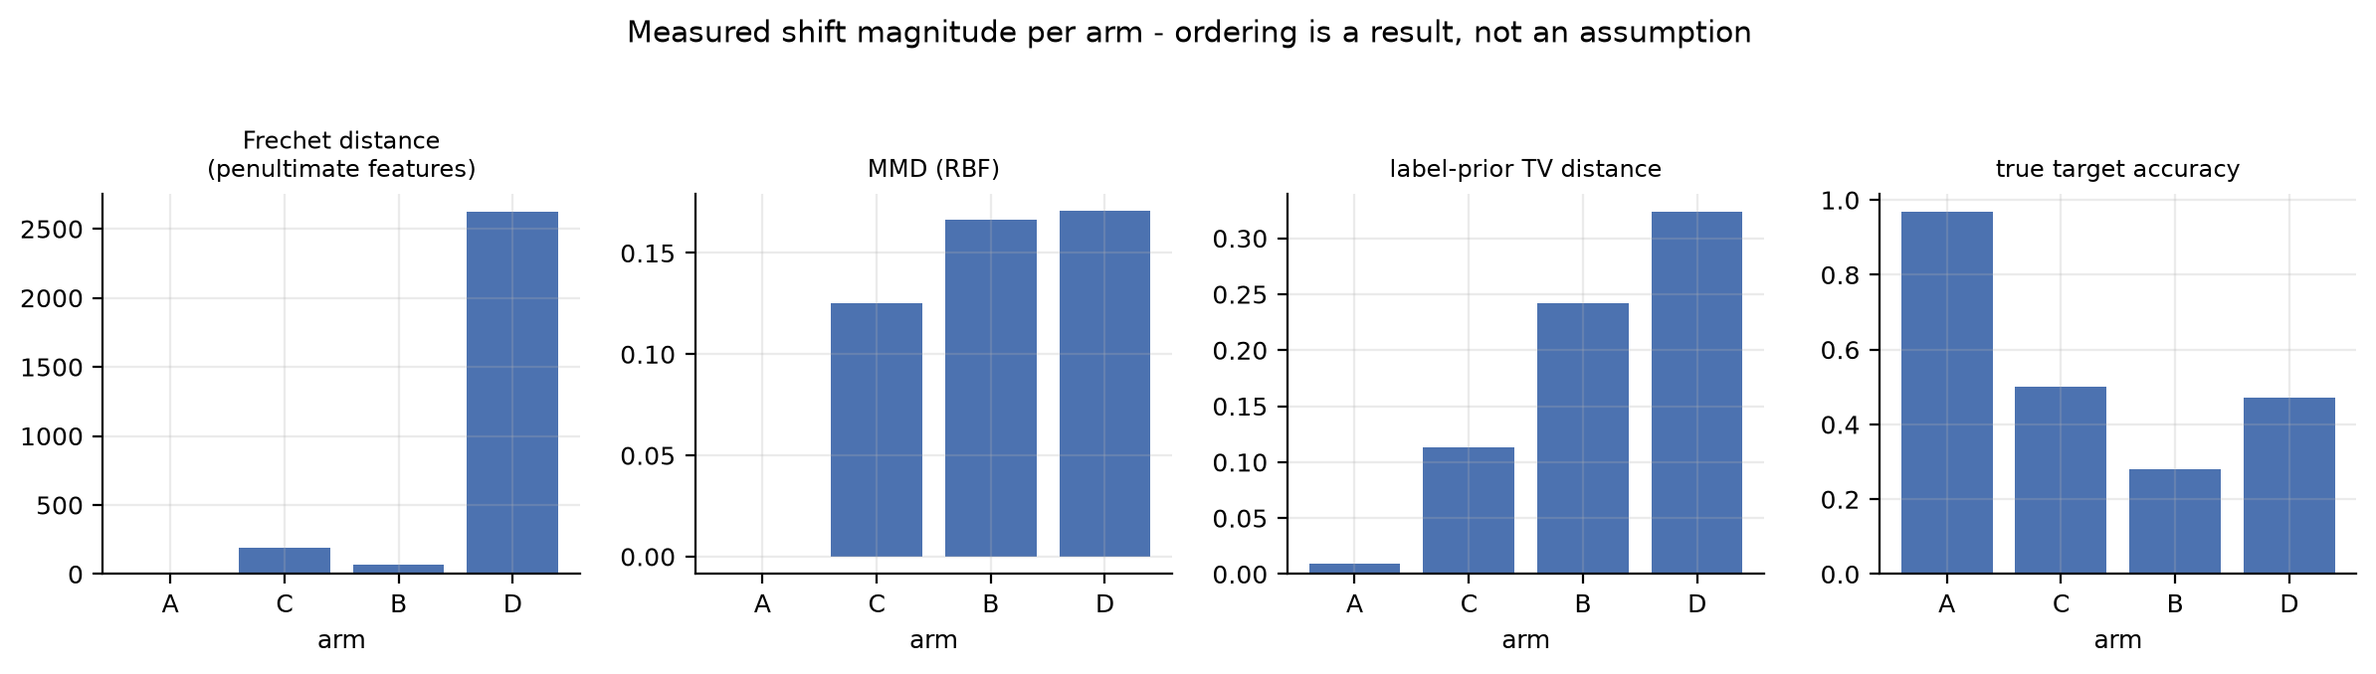
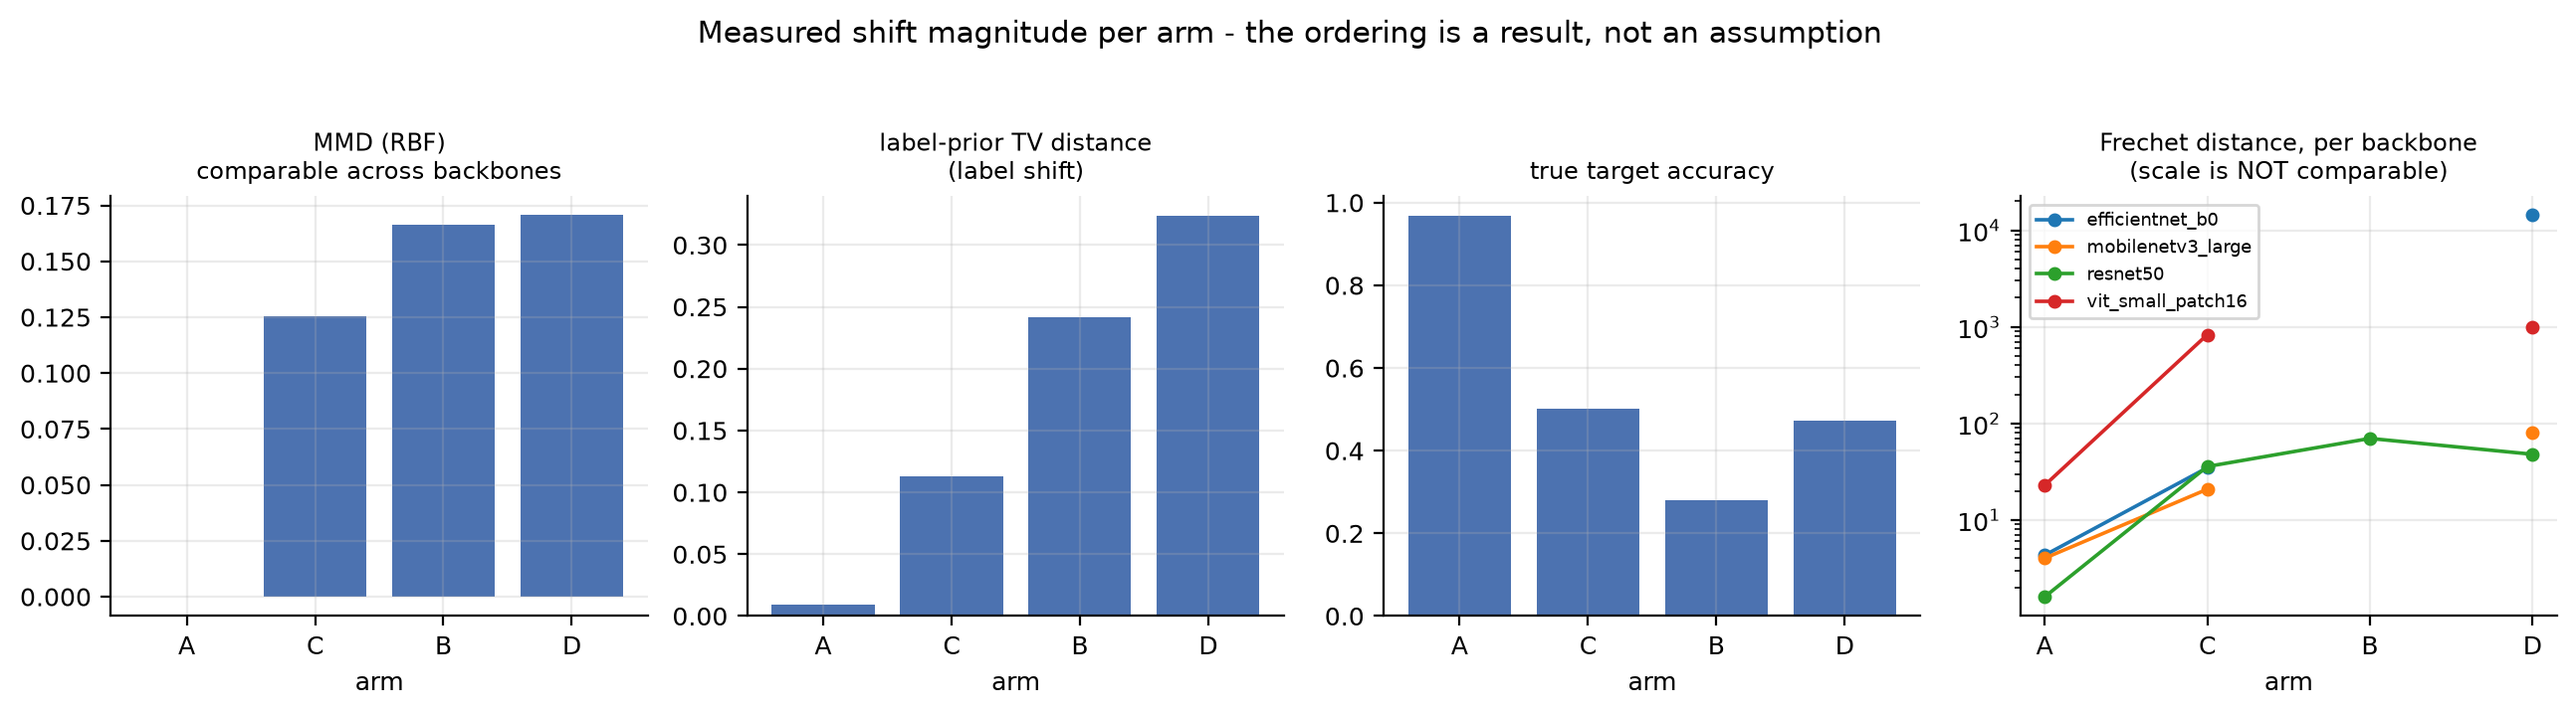
Fix incomparable Frechet averaging across backbones; arm B caveat
Frechet distance scales with each backbone's feature geometry - on arm D it
reads ~48 for ResNet-50 against ~14,500 for EfficientNet-B0, a 300x gap that is
feature scale, not shift. Averaging it across architectures compared
incommensurable numbers. The cross-arm comparison now rests on MMD (bounded)
and label-prior TV distance; Frechet is plotted per backbone on a log axis so
its scale-dependence is visible rather than hidden.

Also flags arm B's low target accuracy (0.281): the section 12 threshold of
0.40 was written for the 3-class task where chance is 0.333, while arm B is
7-class with chance 0.143, so it is not mechanically tripped - but the caveat
is stated rather than passed over.

diff --git a/scripts/make_report.py b/scripts/make_report.py
@@ -183,11 +183,11 @@ def main() -> int:
             tv=("tv_distance", "mean"),
         ).reset_index()
         s["drop"] = s.source_accuracy - s.target_accuracy
-        add("| arm | domain | source acc | target acc | accuracy drop | Fréchet | MMD | label-shift TV |")
-        add("|---|---|---:|---:|---:|---:|---:|---:|")
+        add("| arm | domain | source acc | target acc | accuracy drop | MMD | label-shift TV |")
+        add("|---|---|---:|---:|---:|---:|---:|")
         for _, r in s.iterrows():
             add(f"| {r.arm} | {ARM_DESC.get(r.arm, r.arm)} | {r.source_accuracy:.4f} | "
-                f"{r.target_accuracy:.4f} | **{r['drop'] * 100:.1f} pp** | {r.frechet:.1f} | "
+                f"{r.target_accuracy:.4f} | **{r['drop'] * 100:.1f} pp** | "
                 f"{r.mmd:.3f} | {r.tv:.3f} |")
         add("")
         d = s[s.arm == "D"]
@@ -197,14 +197,33 @@ def main() -> int:
             add(f"target ≈ source? **no**. Target accuracy {tacc:.3f} < 0.40? "
                 f"**{'yes — TRIPPED' if tacc < 0.40 else 'no'}**.")
         add("")
+        low = s[(s.arm != "A") & (s.target_accuracy < 0.40)]
+        if len(low):
+            add("> **Low-accuracy arms flagged.** " + "; ".join(
+                f"arm {r.arm} reaches only {r.target_accuracy:.3f}" for _, r in low.iterrows())
+                + ". The §12 threshold of 0.40 was written for the three-class task, where "
+                "chance is 0.333. Arm B is a seven-class task, where chance is 0.143, so "
+                "0.281 is about twice chance rather than near it — the condition is not "
+                "mechanically tripped. It is still a weak classifier, and estimates of a "
+                "weak classifier's accuracy are correspondingly less informative, so arm B "
+                "results are reported with that caveat rather than dropped.")
+        add("")
         add("### Shift ordering — measured, not assumed")
+        add("")
+        add("> **On which shift metric to trust.** MMD is bounded and the label-prior TV "
+            "distance is a metric on priors, so both are comparable across backbones. "
+            "Fréchet distance is **not**: it scales with each backbone's feature geometry, "
+            "and on arm D it reads ~48 for ResNet-50 against ~14,500 for EfficientNet-B0 — "
+            "a 300× gap that reflects feature scale, not shift. The cross-arm comparison "
+            "below therefore rests on MMD and TV; Fréchet is reported per backbone in "
+            "Fig 12 and should not be averaged across them.")
         add("")
         cd = s[s.arm.isin(["C", "D"])]
         if len(cd) == 2:
-            fr = cd.set_index("arm").frechet
+            mm = cd.set_index("arm").mmd
             tv = cd.set_index("arm").tv
-            add(f"Arms C and D have nearly the same **covariate** shift "
-                f"(Fréchet {fr.get('C', float('nan')):.1f} vs {fr.get('D', float('nan')):.1f}) "
+            add(f"Arms C and D have similar **covariate** shift "
+                f"(MMD {mm.get('C', float('nan')):.3f} vs {mm.get('D', float('nan')):.3f}) "
                 f"but very different **label** shift "
                 f"(TV {tv.get('C', float('nan')):.3f} vs {tv.get('D', float('nan')):.3f}). ")
             add("So the arms differ in the **kind** of shift, not simply its magnitude. "

diff --git a/src/visualization/figures.py b/src/visualization/figures.py
@@ -215,31 +215,53 @@ def fig_v1_v2_leakage(agg: pd.DataFrame, n: int = 100) -> Path | None:
 
 
 def fig_shift_magnitude(shift: pd.DataFrame) -> Path | None:
-    """Is there actually a severity ordering across arms? Measured, not assumed."""
+    """Is there actually a severity ordering across arms? Measured, not assumed.
+
+    MMD (bounded) and the label-prior TV distance are comparable across
+    backbones, so those carry the cross-arm comparison. Frechet distance is
+    **not** - it scales with the geometry of each backbone's feature space, and
+    averaging it over architectures would compare incommensurable numbers
+    (EfficientNet-B0 reports ~14,500 on arm D where ResNet-50 reports ~48).
+    It is therefore drawn per backbone on a log axis, which shows the ordering
+    each backbone agrees on while making the scale-dependence visible.
+    """
     if shift is None or not len(shift):
         return None
+    arms = [a for a in ARM_ORDER if a in set(shift.arm)]
     d = shift.groupby("arm").agg(
-        frechet=("frechet_distance", "mean"),
         mmd=("mmd_rbf", "mean"),
         tv=("tv_distance", "mean"),
         target_acc=("target_accuracy", "mean"),
-    )
-    d = d.reindex([a for a in ARM_ORDER if a in d.index])
+    ).reindex(arms)
 
-    fig, axes = plt.subplots(1, 4, figsize=(12, 3.2))
+    fig, axes = plt.subplots(1, 4, figsize=(13, 3.4))
     for ax, (col, title) in zip(
         axes,
         [
-            ("frechet", "Frechet distance\n(penultimate features)"),
-            ("mmd", "MMD (RBF)"),
-            ("tv", "label-prior TV distance"),
+            ("mmd", "MMD (RBF)\ncomparable across backbones"),
+            ("tv", "label-prior TV distance\n(label shift)"),
             ("target_acc", "true target accuracy"),
         ],
     ):
         ax.bar(d.index, d[col], color="#4c72b0")
         ax.set_title(title, fontsize=8.5)
         ax.set_xlabel("arm")
-    fig.suptitle("Measured shift magnitude per arm - ordering is a result, not an assumption", y=1.04)
+
+    ax = axes[3]
+    piv = shift.pivot_table(
+        index="arm", columns="backbone", values="frechet_distance", aggfunc="mean"
+    ).reindex(arms)
+    for bb in piv.columns:
+        ax.plot(piv.index, piv[bb], marker="o", ms=4, lw=1.3, label=bb)
+    ax.set_yscale("log")
+    ax.set_xlabel("arm")
+    ax.set_title("Frechet distance, per backbone\n(scale is NOT comparable)", fontsize=8.5)
+    ax.legend(fontsize=6.5)
+
+    fig.suptitle(
+        "Measured shift magnitude per arm - the ordering is a result, not an assumption",
+        y=1.04,
+    )
     fig.tight_layout()
     return _save(fig, "fig12_shift_magnitude.png")
 
